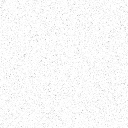
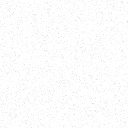
Исправить обрезку букв в масках и зерно
- маски букв и цифровых барабанов режут только по вертикали:
  при отрицательном letter-spacing глиф шире своего бокса
- зерно пересоздано по образцу: половина пикселей прозрачна,
  видимые — средние тона с цветовым шумом, контраст на белом как у оригинала;
  opacity 0.9, чёткие тексели на масштабе 125–175 %
- у текстур зерна и displacement отдельные seed

diff --git a/src/styles/main.css b/src/styles/main.css
@@ -15,12 +15,13 @@ img { display: block; width: 100%; height: 100%; object-fit: cover; }
 .skip-link { position: fixed; z-index: 100; top: 8px; left: 8px; padding: 12px; background: var(--paper); transform: translateY(-180%); }
 .skip-link:focus { transform: none; }
 
-/* Split text: words never break inside, masks leave room for Cyrillic descenders. */
+/* Split text: words never break inside, masks leave room for Cyrillic descenders.
+   Masks clip only vertically: with negative letter-spacing a glyph is wider than its box. */
 .word, .char { display: inline-block; position: relative; }
 .word { white-space: nowrap; }
-.char-mask { display: inline-block; vertical-align: top; padding: .06em 0 .14em; margin: -.06em 0 -.14em; }
+.char-mask { display: inline-block; vertical-align: top; padding: .06em 0 .14em; margin: -.06em 0 -.14em; overflow: visible !important; clip-path: inset(0 -.5em); }
 .reels { display: inline-flex; vertical-align: top; line-height: 1; }
-.reel-mask { display: inline-block; height: 1em; overflow: clip; }
+.reel-mask { display: inline-block; height: 1em; clip-path: inset(0 -.5em); }
 .reel { display: block; }
 .reel>span { display: block; height: 1em; }
 
@@ -65,7 +66,7 @@ html:has(.gallery-main:not(.view-list)) { overscroll-behavior: none; }
 .filters button[aria-pressed='true'], .filters button:hover, .filters button:focus-visible { color: var(--ink); text-decoration: none; }
 .progress { margin-left: auto; flex: none; display: inline-flex; line-height: 1; }
 .overview-focus { display: none; position: absolute; left: 33.333%; bottom: 14px; align-items: flex-end; gap: 8vw; }
-.hover-index { display: inline-block; overflow: clip; font: 700 95px/1 var(--display); letter-spacing: -.06em; }
+.hover-index { display: inline-block; clip-path: inset(0 -.5em); font: 700 95px/1 var(--display); letter-spacing: -.06em; }
 .overview-focus>p { max-width: 260px; line-height: 1.4; padding-bottom: 5px; text-transform: uppercase; display: flex; flex-direction: column; }
 .overview-focus>p>span:last-child { color: var(--muted); }
 .site-footer[data-view='overview'] .overview-focus { display: flex; }
@@ -106,8 +107,12 @@ html:has(.gallery-main:not(.view-list)) { overscroll-behavior: none; }
 .not-found h1 { font: 700 clamp(42px, 8vw, 110px)/.95 var(--display); letter-spacing: -.06em; margin: 30px 0; }
 
 /* Moving film grain: own 128px texture on an overscanned layer, jumping ten times a second. */
-.noise { position: fixed; inset: 0; z-index: 60; pointer-events: none; overflow: hidden; }
-.noise::after { content: ''; position: absolute; inset: -10rem; background: url('/grain.png') 50% / 128px; animation: grain 2s steps(2) infinite; will-change: transform; }
+/* Texels stay crisp: whole device pixels per texel, so fractional scaling (125–175 %) does not smear the grain. */
+.noise { position: fixed; inset: 0; z-index: 60; pointer-events: none; overflow: hidden; opacity: .9; }
+.noise::after { content: ''; position: absolute; inset: -10rem; background: url('/grain.png') 0 0 / 128px; image-rendering: pixelated; animation: grain 2s steps(2) infinite; will-change: transform; }
+@media (min-resolution: 1.2dppx) and (max-resolution: 1.9dppx) { .noise::after { background-size: calc(128px / 1.25); } }
+@media (min-resolution: 1.4dppx) and (max-resolution: 1.9dppx) { .noise::after { background-size: calc(128px / 1.5); } }
+@media (min-resolution: 1.7dppx) and (max-resolution: 1.9dppx) { .noise::after { background-size: calc(128px / 1.75); } }
 @keyframes grain {
   0% { transform: translate3d(0, 9rem, 0); }
   10% { transform: translate3d(-1rem, -4rem, 0); }

diff --git a/scripts/make-textures.py b/scripts/make-textures.py
@@ -9,18 +9,20 @@ import numpy as np
 from PIL import Image
 
 root = Path(__file__).resolve().parent.parent / 'public'
-rng = np.random.default_rng(88)
+rng = np.random.default_rng(88)  # grain; the displacement map has its own seed below
 
-# Grain: independent pixels tile seamlessly. Reference noise2.png: 100px, alpha mean ~6/255, max ~52.
+# Grain: independent pixels tile seamlessly. Reference noise2.png: about half the pixels fully transparent,
+# the rest mid-tone colour noise (channels independent) at alpha ~12/255; on white that is std ~3.8 levels.
 size = 128
-dark = rng.random((size, size)) < 0.7
-value = np.where(dark, rng.integers(0, 40, (size, size)), rng.integers(200, 256, (size, size)))
-alpha = np.clip(rng.exponential(9, (size, size)), 0, 64)
-grain = np.dstack([value, value, value, alpha]).astype(np.uint8)
+visible = rng.random((size, size)) > 0.49
+colour = rng.integers(64, 200, (size, size, 3))
+alpha = np.where(visible, np.clip(rng.exponential(11, (size, size)), 0, 52), 0)
+grain = np.dstack([colour, alpha]).astype(np.uint8)
 Image.fromarray(grain, 'RGBA').save(root / 'grain.png', optimize=True)
 
 # Displacement: periodic 1/f^2 noise (FFT keeps it tileable) with contrast close to disp88.jpeg.
 size = 512
+rng = np.random.default_rng(89)
 spectrum = np.fft.fft2(rng.standard_normal((size, size)))
 fy = np.fft.fftfreq(size)[:, None]
 fx = np.fft.fftfreq(size)[None, :]
